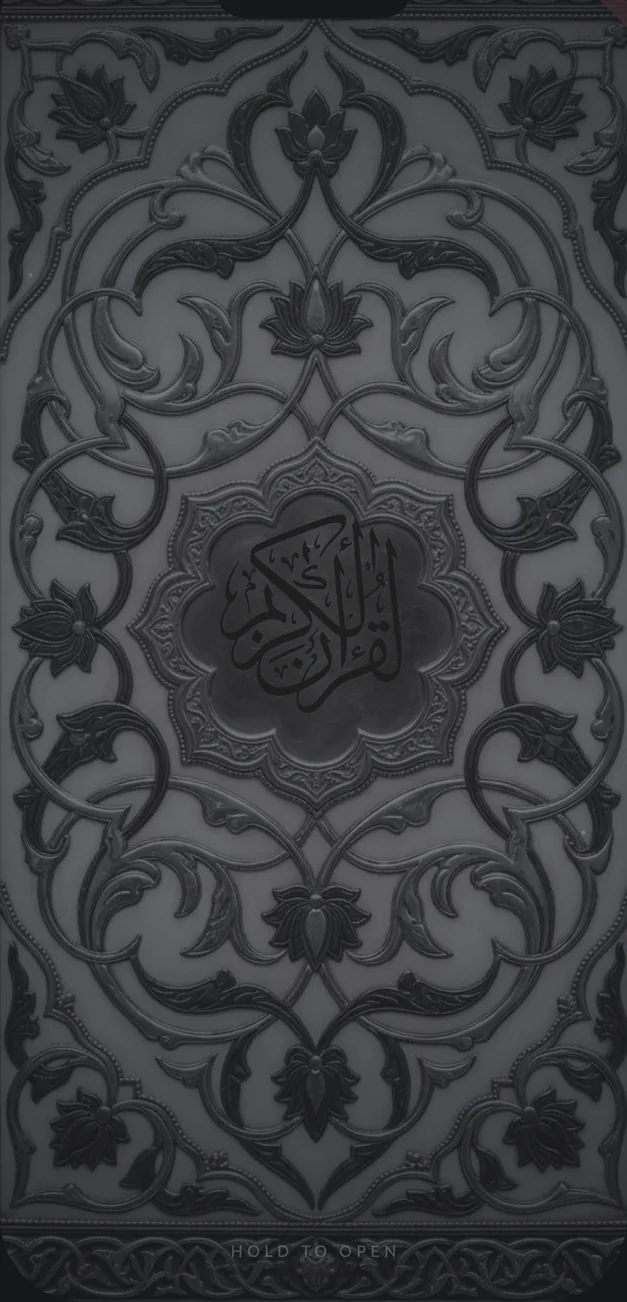
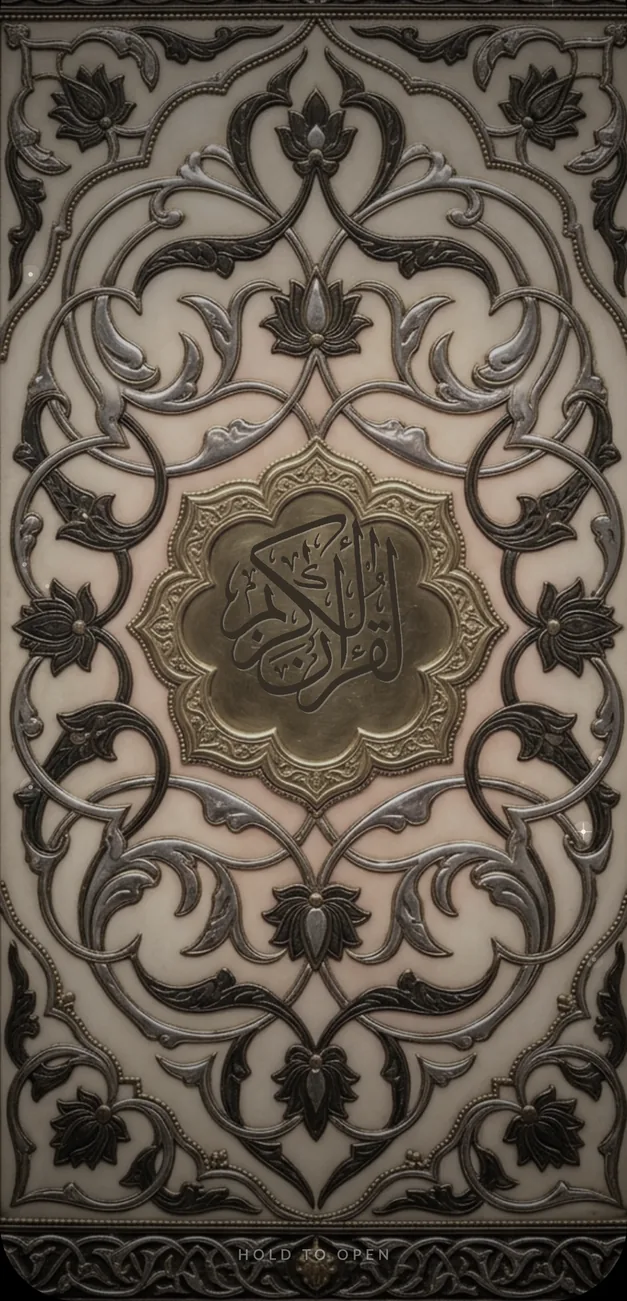
Show the covers the app actually draws
The five metals in the fan were Python tints of one screenshot, made before the
cover had a backlight. They are real captures now, one per metal, taken by the
screenshot driver with the reading days seeded to the last step of each -- so
they carry the lamp behind the medallion and, at platinum, the Name giving off
light rather than being struck into the plate.

The hero cover is the same capture rather than the old flat one.

Claude-Session: https://claude.ai/code/session_019SMqzEHXGL7a2B2GUXeJxk

diff --git a/README.md b/README.md
@@ -78,10 +78,14 @@ sentence mixing single Arabic letters into English needs the same treatment.
 
 ## Images
 
-`img/cover_*.webp` are one cover screenshot tinted per metal by luminance, so
-the relief of the artwork survives rather than flattening into coloured shapes.
-Regenerate all five together if that screenshot is ever recaptured — the fan
-shows them side by side and a mismatched one would stand out.
+`img/cover_*.webp` are **real captures of the app**, one per metal, taken by
+the screenshot driver in the app repo with the reading days seeded to the last
+step of each metal. They were previously Python tints of a single screenshot;
+they are not any more, so they show the backlight behind the medallion and the
+Name lighting at platinum exactly as the app draws them.
+
+Regenerate all five together, never one at a time — the fan shows them side by
+side and a mismatched one would stand out.
 
 `img/shot_reader.webp` is a **recolour, not a fresh capture**: the run was in a
 blue appearance, and its luminance was mapped onto the app's Parchment ramp.
